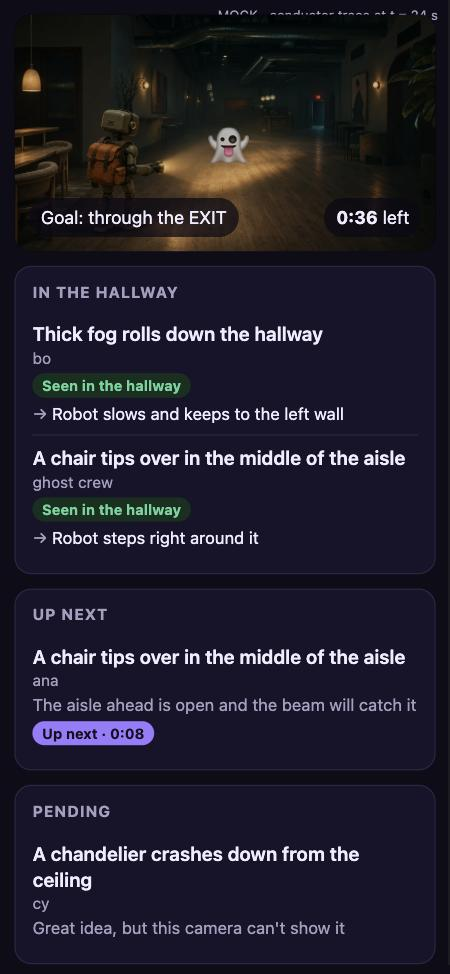
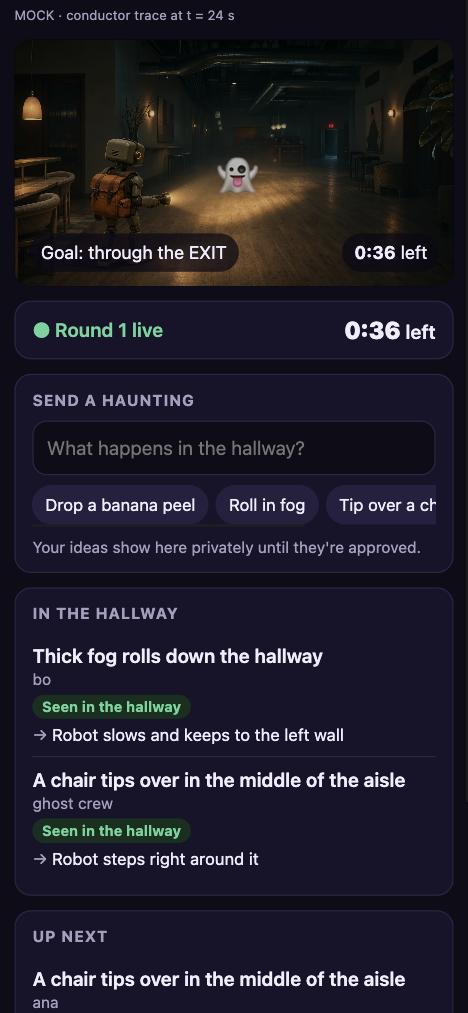
[crowd] conductor doc: 30 s opening window, round phases, 390 px phone and projector mocks

Changed region(s): [[0.0311, 0.0, 0.9333, 1.0], [0.7156, 0.1848, 0.9644, 0.3388], [0.7778, 0.0616, 0.8711, 0.154]]

diff --git a/apps/crowd/docs/sidebar-mock.html b/apps/crowd/docs/sidebar-mock.html
@@ -30,8 +30,20 @@ h2{font-size:13px;text-transform:uppercase;letter-spacing:.06em;color:var(--mute
 .resp{font-size:14px;margin-top:4px}
 .resp::before{content:"→ ";color:var(--muted)}
 .label{position:fixed;top:6px;right:10px;font-size:11px;color:var(--muted)}
+.phase{display:flex;justify-content:space-between;align-items:center;gap:8px;background:var(--panel);border:1px solid var(--line);border-radius:14px;padding:10px 14px;font-weight:600}
+.phase .state{color:var(--ok)}
+.phase.opening .state{color:var(--go)}
+.phase b{font-variant-numeric:tabular-nums;font-size:20px}
+.compose{display:none}
+.compose input{width:100%;font:inherit;color:var(--ink);background:var(--bg);border:1px solid var(--line);border-radius:12px;padding:11px}
+.chips{display:flex;gap:6px;overflow-x:auto;margin-top:8px;padding-bottom:2px}
+.chip{flex:none;background:var(--chip);border-radius:999px;padding:7px 11px;font-size:14px}
+.receipt{font-size:13px;color:var(--muted);margin-top:8px}
+.empty{color:var(--muted);font-size:14px}
 @media (max-width:700px){
   .stage{grid-template-columns:1fr;padding:12px;gap:12px}
+  .label{position:static;display:block;padding:6px 12px 0}
+  .compose{display:block}
 }
 </style>
 </head>
@@ -44,7 +56,14 @@ h2{font-size:13px;text-transform:uppercase;letter-spacing:.06em;color:var(--mute
     <div class="hud"><span>Goal: through the EXIT</span><span><b>0:36</b> left</span></div>
   </div>
   <div class="feed">
-    <section class="box" aria-label="In the hallway">
+    <div class="phase" id="phase"><span class="state">● Round 1 live</span><span><b>0:36</b> left</span></div>
+    <section class="box compose" aria-label="Send a haunting (phone only)">
+      <h2>Send a haunting</h2>
+      <input placeholder="What happens in the hallway?" aria-label="Your idea">
+      <div class="chips"><span class="chip">Drop a banana peel</span><span class="chip">Roll in fog</span><span class="chip">Tip over a chair</span><span class="chip">Flicker the lights</span></div>
+      <div class="receipt" id="receipt">Your ideas show here privately until they're approved.</div>
+    </section>
+    <section class="box" aria-label="In the hallway" id="hallway">
       <h2>In the hallway</h2>
       <div class="item">
         <div class="text">Thick fog rolls down the hallway</div>
@@ -78,5 +97,25 @@ h2{font-size:13px;text-transform:uppercase;letter-spacing:.06em;color:var(--mute
     </section>
   </div>
 </div>
+<script>
+// ?phase=opening shows the 30 s submission window before the robot moves and the clock starts.
+if (new URLSearchParams(location.search).get("phase") === "opening") {
+  document.title = "Audience sidebar mock (opening)";
+  document.querySelector(".label").textContent = "MOCK · opening window, 0:24 before the robot moves";
+  const ph = document.getElementById("phase");
+  ph.className = "phase opening";
+  ph.innerHTML = '<span class="state">● Ideas open</span><span>robot moves in <b>0:24</b></span>';
+  document.querySelector(".hud").innerHTML = '<span>Goal: through the EXIT</span><span>Clock starts in <b>0:24</b></span>';
+  document.querySelector(".ghost").remove();
+  document.getElementById("hallway").innerHTML = '<h2>In the hallway</h2><div class="empty">Nothing yet. The first idea goes in 8 s after the robot starts.</div>';
+  document.getElementById("receipt").textContent = "✓ Got it: “a chandelier crashes down” · checking (only you can see this)";
+  document.querySelector('[aria-label="Up next"] .pill').textContent = "Up next · first slot";
+  document.querySelector('[aria-label="Up next"] .text').textContent = "Thick fog rolls down the hallway";
+  document.querySelector('[aria-label="Up next"] .by').textContent = "bo";
+  document.querySelector('[aria-label="Up next"] .why').textContent = "It will roll right through the flashlight beam";
+  const pending = document.querySelector('[aria-label="Pending"]');
+  pending.insertAdjacentHTML("beforeend", '<div class="item"><div class="text">A chair tips over in the middle of the aisle</div><div class="by">ana</div><div class="why">A chair already fills the beam</div></div>');
+}
+</script>
 </body>
 </html>

diff --git a/apps/crowd/docs/conductor.md b/apps/crowd/docs/conductor.md
@@ -2,9 +2,20 @@
 
 Crowd's answer to World's [conductor brief](../../../FEATURES.md#the-audience-conductor). The policy is code: [`server/conductor.ts`](../server/conductor.ts). The trace below is asserted by [`test/conductor.test.ts`](../test/conductor.test.ts). It isn't wired into the scheduler yet; until World's scene data flows, the scheduler stays FIFO.
 
-| Projector (robot first, feed beside it) | Phone (live view, feed below) |
-|---|---|
-| ![Projector mock](sidebar-projector.jpg) | ![Phone mock](sidebar-phone.jpg) |
+| | Projector (robot first, feed beside it) | Phone, 390 px (live view, then the same feed below) |
+|---|---|---|
+| **Opening, 30 s** | ![Projector, opening](sidebar-projector-opening.jpg) | ![Phone, opening](sidebar-phone-opening.jpg) |
+| **Live, t = 24 s** | ![Projector, live](sidebar-projector.jpg) | ![Phone, live](sidebar-phone.jpg) |
+
+## Round phases (matching on both screens)
+
+| Phase | Phase bar and HUD | Phone | Conductor |
+|---|---|---|---|
+| **Opening** (30 s before the robot moves) | "● Ideas open · robot moves in 0:24" / "Clock starts in 0:24" | Submit box and presets open; private receipt immediately | Nothing is sent. "Up next" says "Picking in 0:14" until **10 s before the clock starts**, then reserves the first pick ("Up next · first slot") on the current shot and holds it. |
+| **Live** | "● Round N live · 0:36 left" | Same, plus "In the hallway" fills in | First slot 8 s after the clock starts, then every 12 s (max 6). |
+| **Over** | "Robot escaped" / "Audience wins: time's up" / "Interrupted: no winner" | Submissions carry over to the next round | Nothing reserved. |
+
+The player keeps getting clean right-shoulder frames in every phase. The phase bar, captions and ghost cue are audience-only.
 
 ## What the audience sees
 
@@ -72,6 +83,8 @@ interface SceneObserved {
 interface HauntSeen { hauntId: Id; episodeId: Id; t: Ms; response?: string }   // response ≤ 60, e.g. "Robot steps right around it"
 type EffectKind = "floor_prop" | "airborne" | "lighting" | "visibility" | "sign" | "audio" | "overhead" | "other";
 ```
+
+**Round phase timing:** for the matching countdowns, Crowd needs to know when the opening started and when the game clock starts. The smallest change: `Episode` gains optional `clockStartsAt` (epoch ms), with `maxDurationMs` counted from it. `episode.started` would then mean "opening began". Or World can publish a `round.phase` event with `{ phase, at, endsAt }`. Either works; World decides.
 
 **Interim option from Brain, needing no new contract:** until `haunt.seen` exists, Crowd can mark an idea "Seen in the hallway" at the first `tick` after `haunt.injected { ok: true }` whose `perception.hazards` gains a new label. The observed response can be that tick's display-safe `rationale` (≤ 60, e.g. "obstacle ahead, stepping left"). This is heuristic: a hazard the player notices isn't proof of what the audience sees. So `haunt.seen` from World's camera stays the target, and the tick rule is the fallback. With neither, the idea stays at "Sent to world".
 
